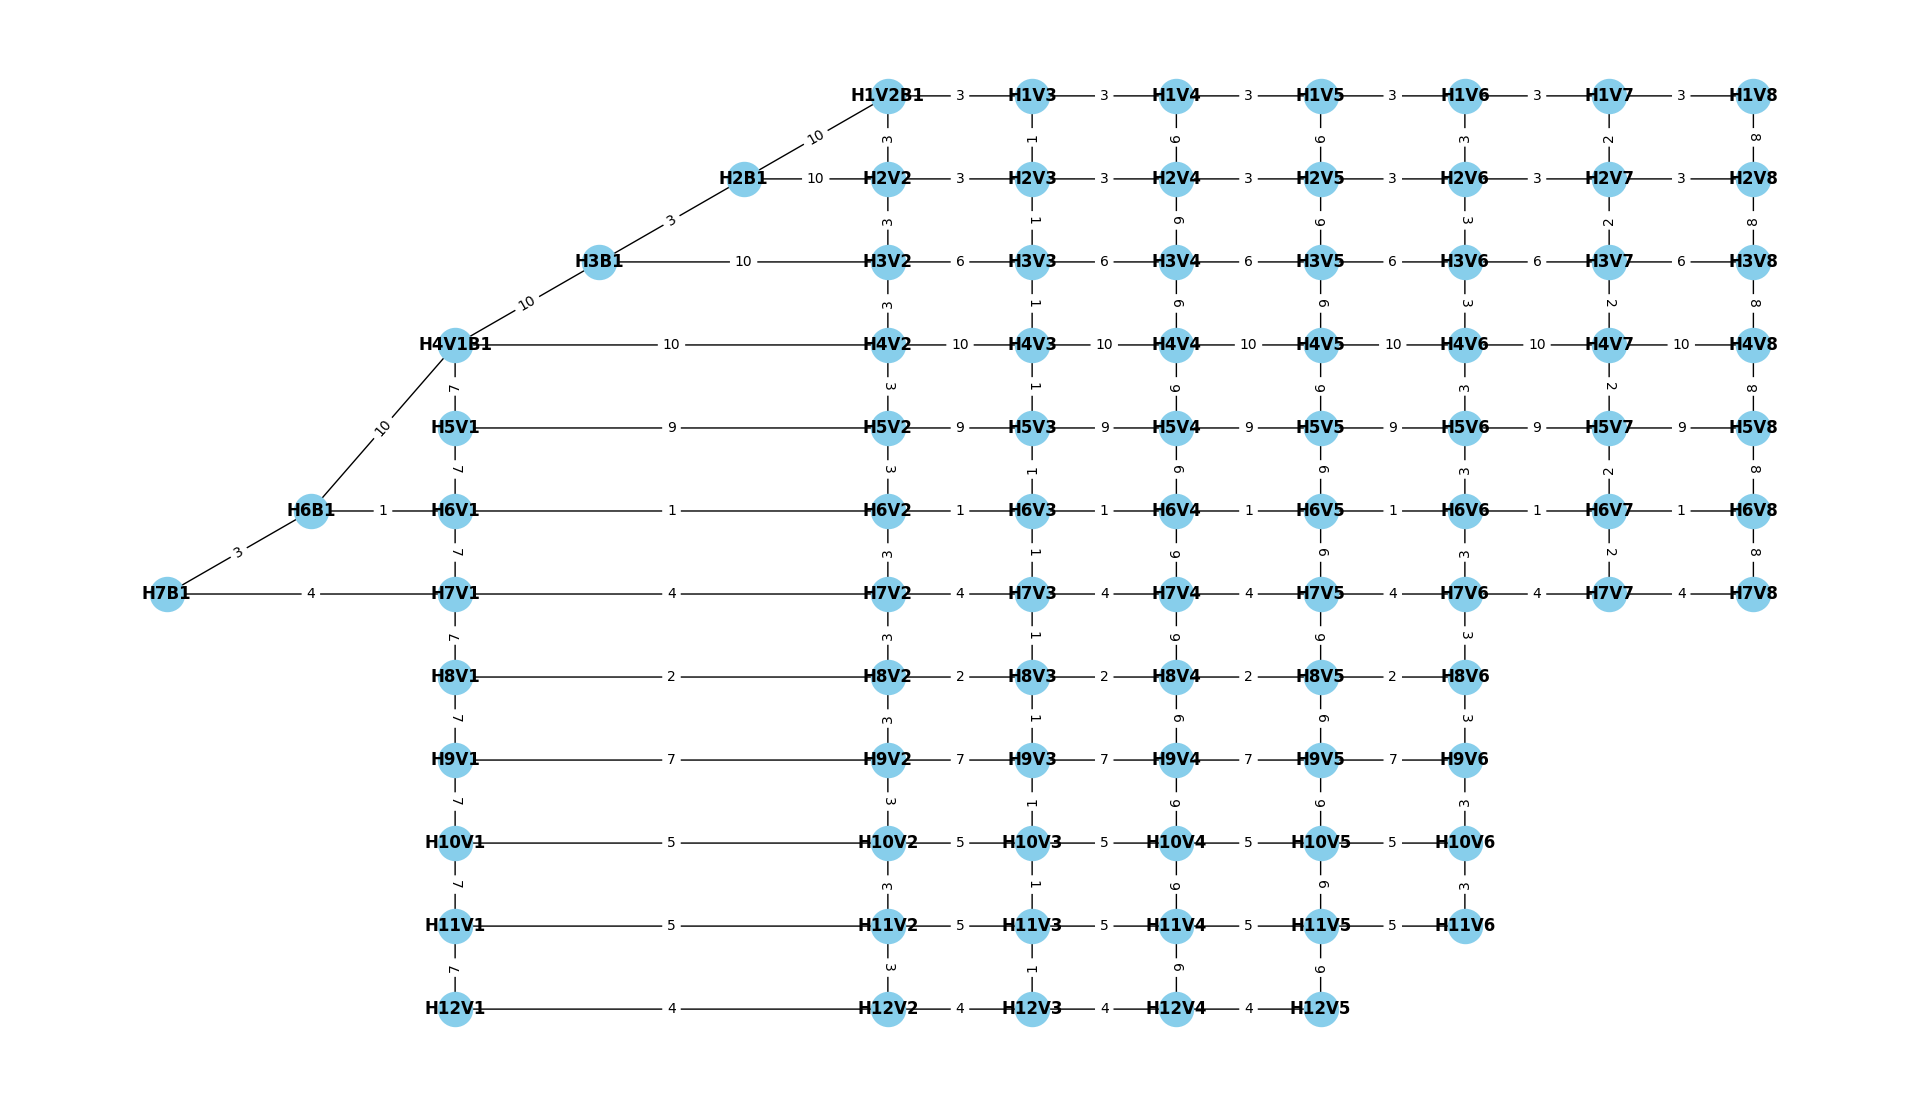
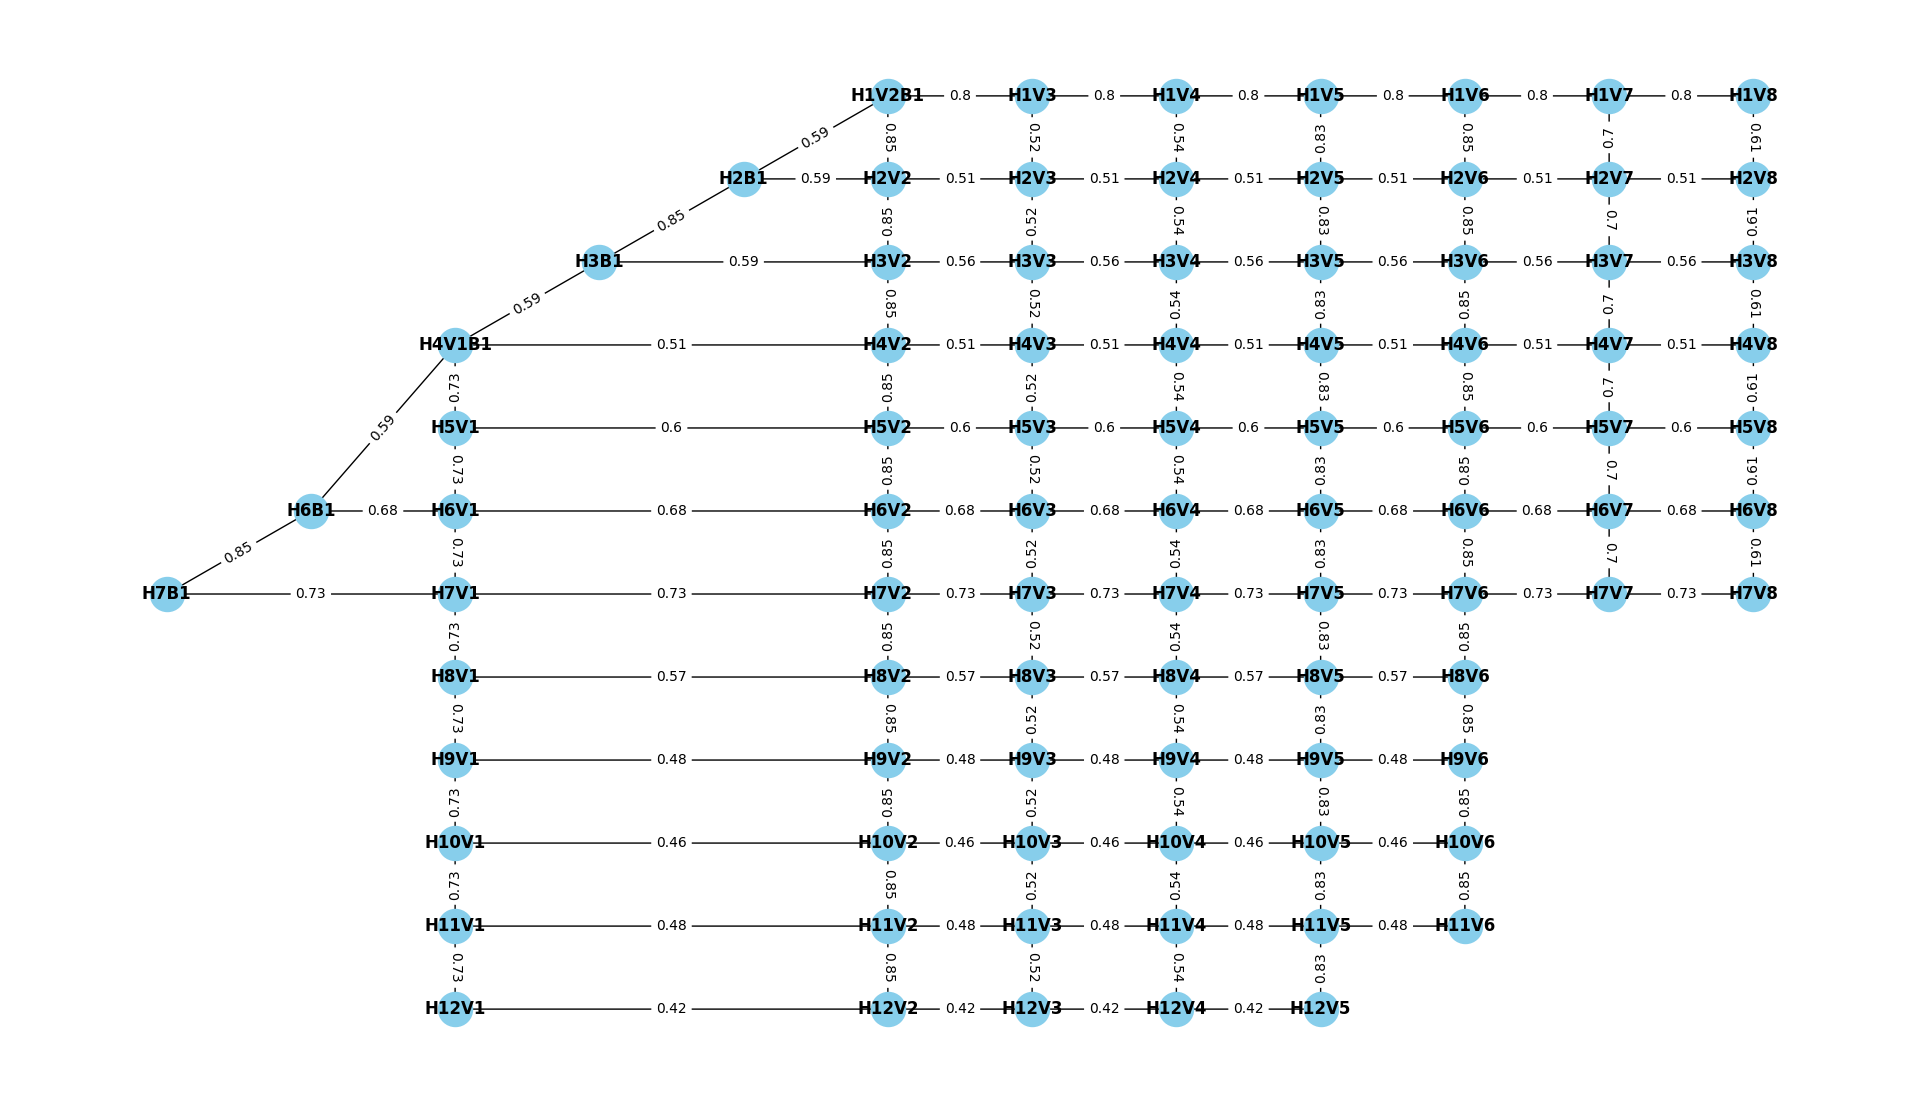
cleanup files

diff --git a/generate-nodes-and-edges.py b/generate-nodes-and-edges.py
@@ -115,11 +115,11 @@ f.close()
 
 horizontal_time_weights = []
 vertical_time_weights = []
-b_time_weight = random.randint(1,10)
+b_time_weight = random.randint(30,70)/100
 for i in horizontal_roads:
-    horizontal_time_weights.append(random.randint(1,10))
+    horizontal_time_weights.append(random.randint(40,80)/100)
 for i in vertical_roads:
-    vertical_time_weights.append(random.randint(1,10))
+    vertical_time_weights.append(random.randint(50,90)/100)
 
 
 # make edges

diff --git a/readCsv.py b/readCsv.py
@@ -25,5 +25,5 @@ def get_edges():
         csv_reader = csv.reader(edges_csv, delimiter=',')
         for idx, row in enumerate(csv_reader):
             if idx != 0:
-                edge_tuple_arr.append((row[0], row[1], int(row[2])))
+                edge_tuple_arr.append((row[0], row[1], float(row[2])))
     return edge_tuple_arr
